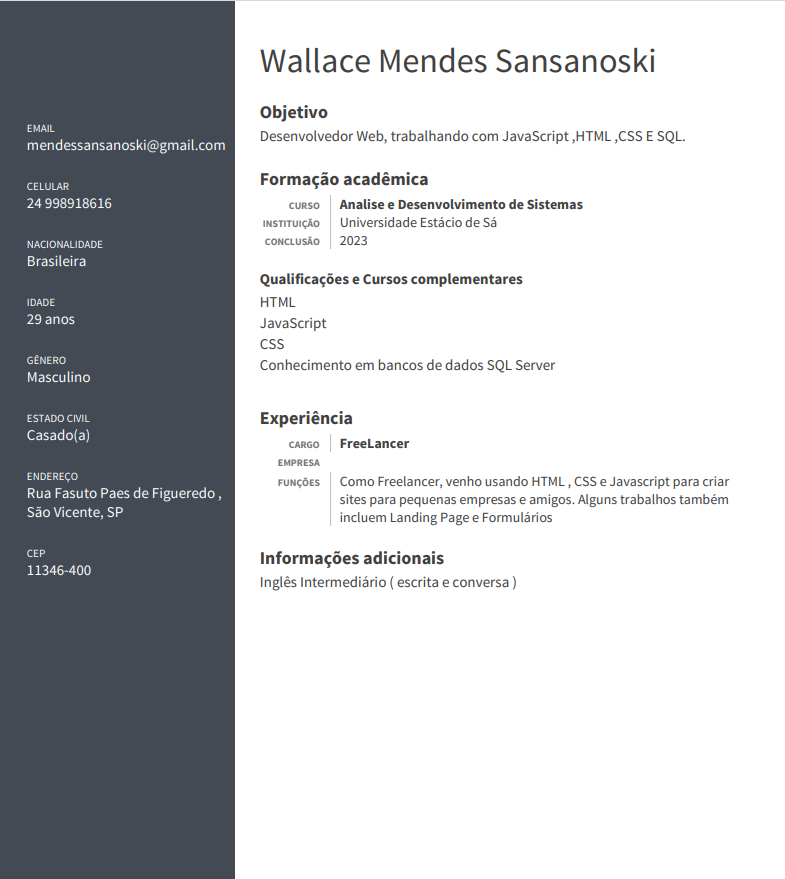
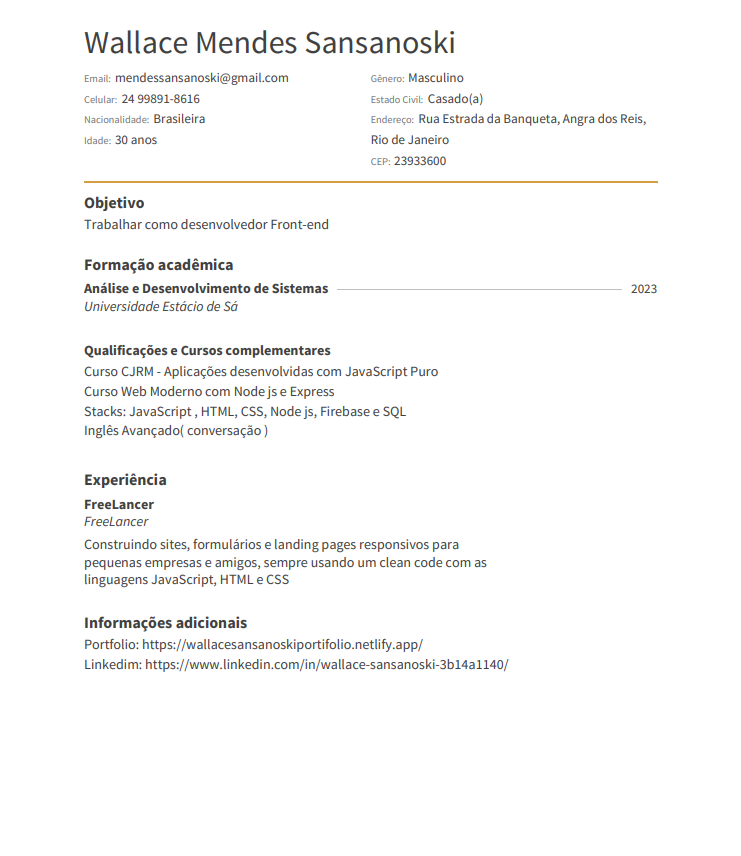
Atualizando curriculo e stacks

diff --git a/index.html b/index.html
@@ -43,7 +43,7 @@
         </section>
         <section class="about" id="about">
             <div class="divblur" data-js="container-blur"></div>
-            <div class="divCurriculo" data-js="container-resume"> <span id="closeCurriculo">X</span>
+            <div class="divCurriculo" data-js="container-resume"> <span class="closeCurriculo">X</span>
                 <img src="cv.png" alt="">
             </div>
             <div class="textAbout ">
@@ -51,7 +51,7 @@
                     <h2 class="h2about">SOBRE MIM</h2>
                 </div>
                 <div class="containerInfo">
-                    <p class="sectiontwoP1"> <strong>Santos, São Paulo</strong></p>
+                    <p class="sectiontwoP1"> <strong>Angra dos Reis, Rio de Janeiro</strong></p>
                     <p class="sectiontwoP2">Cursando Análise e Desenvolvimento de Sistemas,sou apaixonado por tecnologia e novos desafios. A curiosidade me impulsiona em aprender e desenvolver coisas novas. E procuro sempre me desenvolver para colaborar com novas propostas. </p>
                     <button type="submit" class="resume" data-js="resume">CURRICULUM</button>
                     <h3 class="h3stacks">STACKS</h3>
@@ -60,6 +60,8 @@
                         <i data-js="iconStack" class="stacks devicon-html5-plain-wordmark colored animate__animated 3s"></i>
                         <i data-js="iconStack" class="stacks devicon-github-original-wordmark colored animate__animated "></i>
                         <i data-js="iconStack" class="stacks devicon-javascript-plain colored animate__animated "></i>
+                        <i data-js="iconStack" class="stacks devicon-nodejs-plain colored animate__animated"></i>
+                        <i data-js="iconStack" class="stacks devicon-firebase-plain-wordmark colored animate__animated"></i>
                         <i data-js="iconStack" class="stacks devicon-postgresql-plain colored  animate__animated "></i>
                     </div>
                 </div>
@@ -173,7 +175,7 @@
             </div>
         </div>
         <div class="credits">
-            <p><i class="fa-regular fa-copyright"></i>  2022 Desenvolvido por <strong>Wallace Sansanoski</strong>.</p>
+            <p><i class="fa-regular fa-copyright"></i>  2023 Desenvolvido por <strong>Wallace Sansanoski</strong>.</p>
         </div>
         <div data-js="icon-to-up-and-down">&#x27A4;</div>
     </footer>

diff --git a/app.js b/app.js
@@ -1,6 +1,5 @@
-let spanText = document.querySelector('[data-js="introduction-myName"]')
 const buttonGoTopPage = document.querySelector('[data-js="icon-to-up-and-down"]')
-const barMenu =document.querySelector('[ data-js="barMeu"]')
+const barMenu =  document.querySelector('[ data-js="barMeu"]')
 const stacksIcon = document.querySelectorAll('[data-js="iconStack"]')
 const ULMenuBar = document.querySelector('[data-js="menu-bar"]')
 const containerLinks = document.querySelector('[data-js="container-lInk"]')
@@ -9,6 +8,8 @@ const getResume= document.querySelector('[data-js="resume"]')
 const divBlur = document.querySelector('[data-js="container-blur"]')
 const divCurriculo = document.querySelector('[data-js="container-resume"]')
 const mainContainer = document.querySelector('[data-js="main-container"]')
+
+let spanText = document.querySelector('[data-js="introduction-myName"]')
 
 const  logIntroductionIntoScreen = (text, counter) => {
 
@@ -22,7 +23,7 @@ const  logIntroductionIntoScreen = (text, counter) => {
     }, 70)
   }
 }
-  logIntroductionIntoScreen('WALLACE SANSANOSKI', 0)
+logIntroductionIntoScreen('WALLACE SANSANOSKI', 0)
 
 
 const closeBarMenu = event => {
@@ -84,9 +85,7 @@ const idSetinterval = setInterval(() => {
   const insertAnimationClassIntoICON = item => {
     item.classList.toggle('animate__bounce')
   }
-
   stacksIcon.forEach(insertAnimationClassIntoICON)
-
   stopAnimationIconStack(idSetinterval)
 
 }, 1000)
@@ -99,7 +98,7 @@ const showResumeIntoScreen = () => {
 const hideResumeIntoScreen = event => {
   
   const clickedElement = event.target.tagName
-  const isElementCliked = clickedElement === 'DIV'|| clickedElement === 'SPAN'||clickedElement === 'IMG'
+  const isElementCliked = ['DIV', 'SPAN', 'IMG'].includes(clickedElement)
   
   if(isElementCliked){
     divCurriculo.style.display ='none'

diff --git a/style.css b/style.css
@@ -296,7 +296,6 @@ footer{
 footer .allInfo {
     height: 100%;
     display: flex;
-    /* flex-direction: column; */
     justify-content: center;
 }
 footer .allInfo .email {
@@ -381,7 +380,7 @@ h5{
         z-index: 2 ;
         display: none;
     }
-    #closeCurriculo {
+    .closeCurriculo {
         color: white;
         font-size: 40px;
         position: absolute;
@@ -415,7 +414,7 @@ h5{
         z-index: 2 ;
         display: none;
     }
-    #closeCurriculo {
+    .closeCurriculo {
         color: white;
         font-size: 40px;
         position: absolute;
@@ -586,7 +585,7 @@ h5{
     width: 60%;
     height: 70%;
 }
-#closeCurriculo {
+.closeCurriculo {
     color: white;
     font-size: 30px;
     position: absolute;
